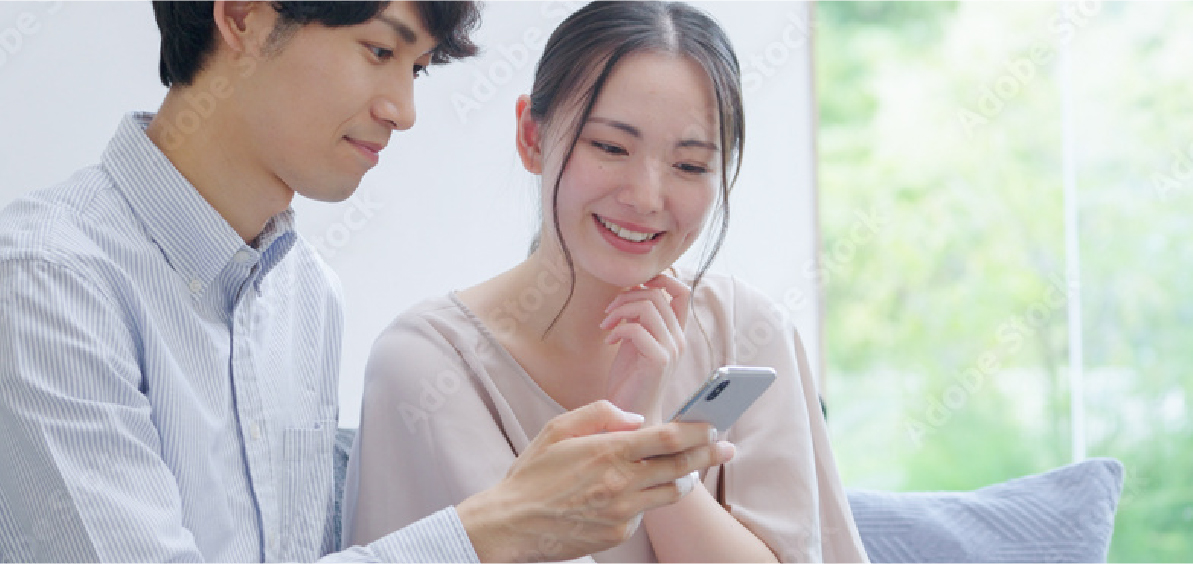
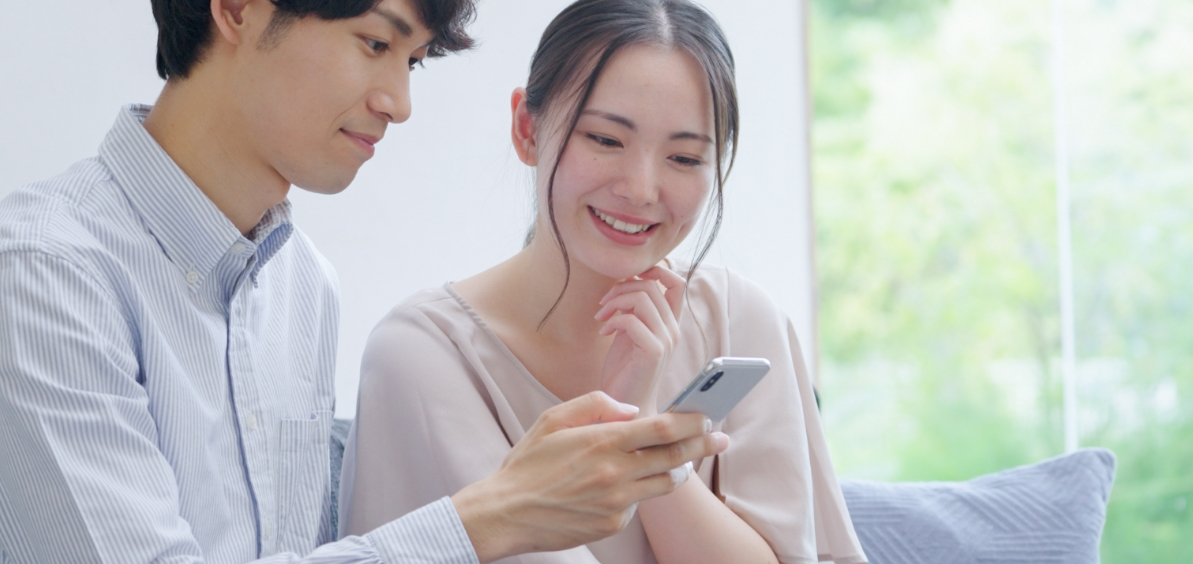
update

diff --git a/src/css/top.css b/src/css/top.css
@@ -496,11 +496,13 @@
 
 .index-kv {
 	position: relative;
-	height: 100vh;
+	width: 100%;
+	height: auto;
+	aspect-ratio: 2600 / 2000;
 }
 @media screen and (max-width: 799px) {
 	.index-kv {
-		height: auto;
+		aspect-ratio: auto;
 	}
 }
 
